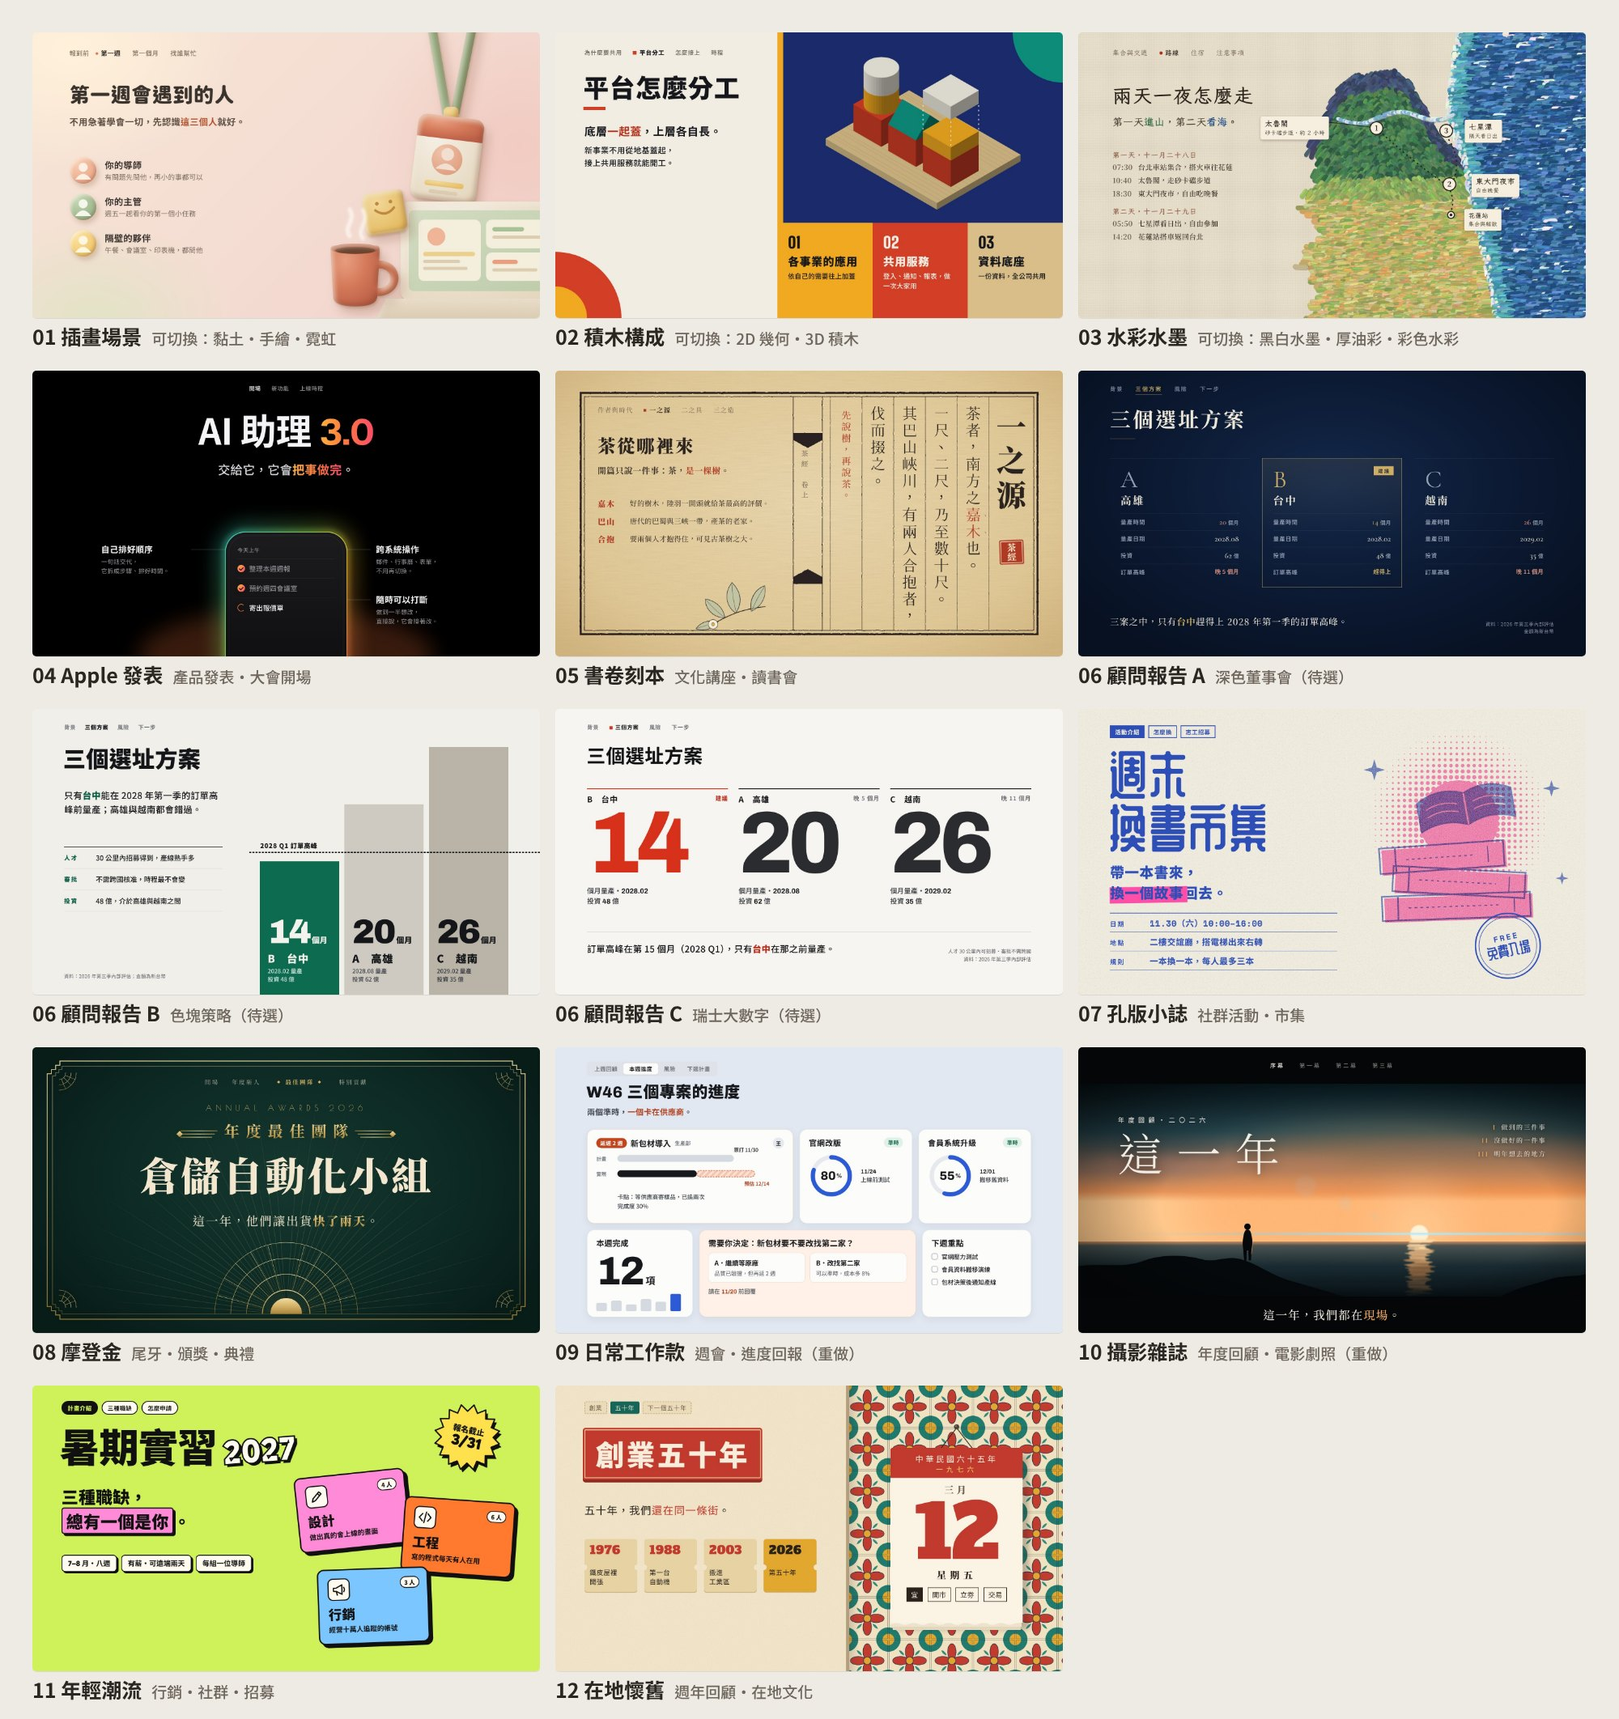
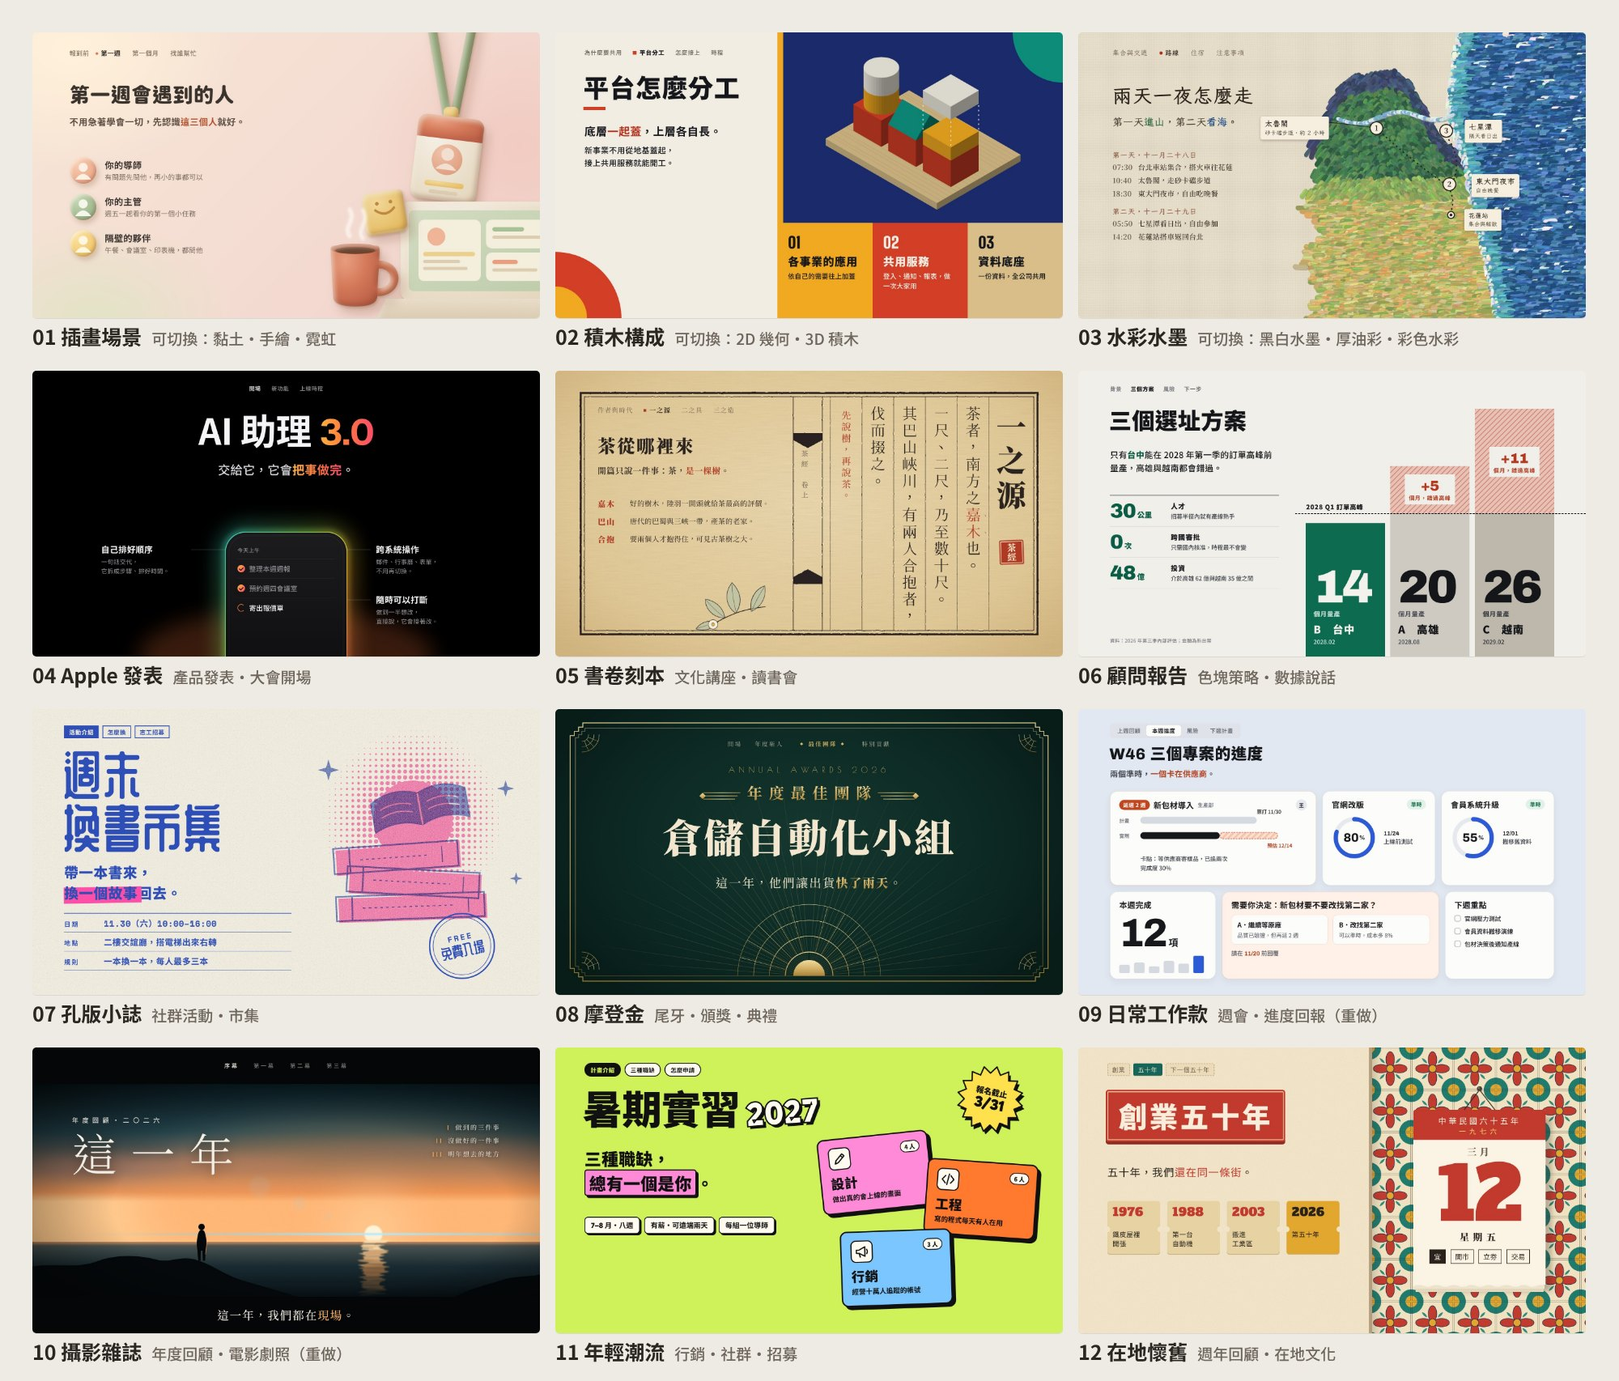
顧問報告定案：色塊策略混搭巨大數字，佐證改成數字
- 06-counsel：色塊即圖表、超出期限的部分標出差距、三條佐證各有一個大數字
- 移除 A、C 候選；更新總覽、審閱頁、style-list-v5、STATUS、ROADMAP；LOG 追加本段

Claude-Session: https://claude.ai/code/session_01Cd6GfsbJAA4rNvekkT5jEL

diff --git a/projects/presentation-skill/outputs/style-moodboard-v5/src/06-counsel.html b/projects/presentation-skill/outputs/style-moodboard-v5/src/06-counsel.html
@@ -1,0 +1,69 @@
+<!doctype html>
+<html lang="zh-Hant">
+<head>
+<meta charset="utf-8">
+<title>06 顧問報告（色塊策略）｜選址三方案</title>
+<link rel="stylesheet" href="https://fonts.googleapis.com/css2?family=Noto+Sans+TC:wght@400;500;700;900&family=Archivo:wght@600;700;800;900&display=block">
+<style>
+  :root{--bg:#F1EFEA;--ink:#141619;--sub:#585D66;--green:#0D6B4F;--greenText:#0B5E45;--gray:#CFCAC1;--gray2:#BDB7AC;--late:#B5381F}
+  *{box-sizing:border-box;margin:0;padding:0}
+  html,body{width:1920px;height:1080px;overflow:hidden;background:var(--bg)}
+  .slide{position:relative;width:1920px;height:1080px;overflow:hidden;background:var(--bg);color:var(--ink);font-family:"Archivo","Noto Sans TC",sans-serif}
+  svg{position:absolute;inset:0}
+  nav{position:absolute;left:120px;top:58px;display:flex;gap:34px;font:500 21px/1 "Noto Sans TC";color:var(--sub);letter-spacing:.06em}
+  nav b{color:var(--ink);font-weight:900}
+  h2{position:absolute;left:116px;top:136px;font:900 86px/1.12 "Noto Sans TC";letter-spacing:.01em}
+  p.lead{position:absolute;left:120px;top:292px;width:640px;font:500 32px/1.55 "Noto Sans TC";letter-spacing:.02em}
+  p.lead em{font-style:normal;font-weight:900;color:var(--greenText)}
+  /* evidence: every point stands on a number */
+  .ev{position:absolute;left:120px;top:470px;width:640px;border-top:2px solid var(--ink)}
+  .ev div{display:grid;grid-template-columns:230px 1fr;align-items:center;padding:20px 0;border-bottom:1px solid #D3CFC6}
+  .ev b{font:900 76px/1 "Archivo";letter-spacing:-.03em;color:var(--greenText)}
+  .ev b small{font:900 28px/1 "Noto Sans TC";letter-spacing:0;margin-left:6px}
+  .ev strong{display:block;font:900 26px/1.3 "Noto Sans TC";letter-spacing:.08em}
+  .ev span{display:block;margin-top:6px;font:500 22px/1.45 "Noto Sans TC";color:#3F444B}
+  .src{position:absolute;left:120px;top:1010px;font:400 18px/1 "Noto Sans TC";color:#5D6168;letter-spacing:.04em}
+  /* the chart is the poster: block height = months to mass production */
+  .blk{position:absolute;bottom:0;width:300px;padding:0 30px 40px;display:flex;flex-direction:column;justify-content:flex-end}
+  .blk b{display:block;font:900 176px/.84 "Archivo";letter-spacing:-.05em}
+  .blk em{display:block;margin-top:14px;font:700 24px/1 "Noto Sans TC";font-style:normal;letter-spacing:.06em}
+  .blk strong{display:block;margin-top:22px;font:900 40px/1.2 "Noto Sans TC";letter-spacing:.06em}
+  .blk small{display:block;margin-top:8px;font:500 22px/1.45 "Noto Sans TC"}
+  .over{position:absolute;width:190px;margin-left:55px;padding:16px 0 14px;background:var(--bg);text-align:center;font:900 54px/1 "Archivo";color:var(--late);letter-spacing:-.02em}
+  .over small{display:block;margin-top:8px;font:700 21px/1 "Noto Sans TC";letter-spacing:.08em}
+  .peak{position:absolute;left:820px;width:1100px;border-top:4px dashed var(--ink)}
+  .peak span{position:absolute;left:30px;top:-46px;font:900 24px/1 "Noto Sans TC";letter-spacing:.06em;background:var(--bg);padding:6px 12px}
+</style>
+</head>
+<body>
+<div class="slide">
+  <svg width="1920" height="1080" viewBox="0 0 1920 1080" aria-hidden="true">
+    <defs>
+      <pattern id="late" width="14" height="14" patternUnits="userSpaceOnUse" patternTransform="rotate(45)">
+        <rect width="14" height="14" fill="#E8C2B6"/><line x1="0" y1="0" x2="0" y2="14" stroke="#B5381F" stroke-opacity=".55" stroke-width="5"/>
+      </pattern>
+    </defs>
+    <!-- the part of each block that runs past the order peak -->
+    <rect x="1180" y="360" width="300" height="180" fill="url(#late)"/>
+    <rect x="1500" y="144" width="300" height="396" fill="url(#late)"/>
+  </svg>
+
+  <nav aria-label="章節"><span>背景</span><b>三個方案</b><span>風險</span><span>下一步</span></nav>
+  <h2>三個選址方案</h2>
+  <p class="lead">只有<em>台中</em>能在 2028 年第一季的訂單高峰前量產，高雄與越南都會錯過。</p>
+  <div class="ev">
+    <div><b>30<small>公里</small></b><p><strong>人才</strong><span>招募半徑內就有產線熟手</span></p></div>
+    <div><b>0<small>次</small></b><p><strong>跨國審批</strong><span>只需國內核准，時程最不會變</span></p></div>
+    <div><b>48<small>億</small></b><p><strong>投資</strong><span>介於高雄 62 億與越南 35 億之間</span></p></div>
+  </div>
+  <p class="src">資料：2026 年第三季內部評估；金額為新台幣</p>
+
+  <section class="blk" style="left:860px;height:504px;background:var(--green);color:#F4F2EC"><b>14</b><em style="color:#CFE5DB">個月量產</em><strong>B　台中</strong><small style="color:#CFE5DB">2028.02</small></section>
+  <section class="blk" style="left:1180px;height:540px;top:540px;background:var(--gray)"><b>20</b><em style="color:#3F444B">個月量產</em><strong>A　高雄</strong><small style="color:#3F444B">2028.08</small></section>
+  <section class="blk" style="left:1500px;height:540px;top:540px;background:var(--gray2)"><b>26</b><em style="color:#33373D">個月量產</em><strong>C　越南</strong><small style="color:#33373D">2029.02</small></section>
+  <div class="over" style="left:1180px;top:392px">+5<small>個月，錯過高峰</small></div>
+  <div class="over" style="left:1500px;top:288px">+11<small>個月，錯過高峰</small></div>
+  <div class="peak" style="top:538px"><span>2028 Q1 訂單高峰</span></div>
+</div>
+</body>
+</html>

diff --git a/projects/presentation-skill/outputs/style-moodboard-v5/index.html b/projects/presentation-skill/outputs/style-moodboard-v5/index.html
@@ -43,11 +43,11 @@
 <main>
   <header>
     <h1>風格意象圖：十二款</h1>
-    <p>每一頁的主標題都只寫「這頁在講什麼」，總結一律放在內文。插畫場景、積木構成、水彩水墨可切換畫風；顧問報告有三個方向待選。用色都還沒定案。</p>
+    <p>每一頁的主標題都只寫「這頁在講什麼」，總結一律放在內文。插畫場景、積木構成、水彩水墨可切換畫風；顧問報告定為色塊策略。用色都還沒定案。</p>
   </header>
   <section class="how" aria-label="怎麼看">
     <div><b>切換畫風</b><span>有切換鈕的款式，點一下看同一頁換畫法的樣子。</span></div>
-    <div><b>顧問報告</b><span>點 A、B、C 切換三個方向，看哪個比較接近你要的。</span></div>
+    <div><b>顧問報告</b><span>你選的色塊策略，混搭巨大數字，佐證都改成數字。</span></div>
     <div><b>並排</b><span>看 <a href="overview.jpg" style="color:var(--accent)">十二款總覽圖</a>，哪些太像。</span></div>
   </section>
   <section class="grid" id="grid"></section>
@@ -62,7 +62,7 @@ const S = [
   ['03','水彩水墨','paint','用畫筆帶路：同一張地圖，三種畫材。','旅遊與活動說明、文化與自然導覽、生活分享','人文、手感、有溫度','畫在紙或畫布上的地圖，地名與路線疊在畫上','員工旅遊・花蓮兩天一夜','你的水彩手繪圖、中國畫水墨、印象派油彩',[['03b-ink-oil','厚油彩'],['03a-ink-mono','黑白水墨'],['03c-ink-watercolor','彩色水彩']],'厚油彩新畫'],
   ['04','Apple 發表','apple','黑色舞台、一句話、一個發光的產品。','產品發表、大會開場、主題演講','俐落、高級、期待','置中構圖、漸層關鍵字、邊緣發光的裝置','AI 助理 3.0 發表','你分享的 Apple Design、HS 黑底巨型數字劇場',[['04-apple','']]],
   ['05','書卷刻本','scroll','像翻開一本線裝書：原文直排，講解橫排。','文化講座、讀書會、國學課','沉靜、典雅、書卷氣','版框、界欄、魚尾、朱印與朱批','讀書會・《茶經》導讀','HS 宋刻本、呂敬人、民國書衣',[['05-scroll','']]],
-  ['06','顧問報告','counsel','三個方向待選：深色董事會、色塊策略、瑞士大數字。','策略提案、決策會議、高階報告','A 沉穩高級／B 大膽現代／C 俐落有力','A 深藍底金線、三欄對照；B 色塊高度就是長條圖、期限線橫切；C 三個巨大數字就是畫面','新廠選址三方案','HS 雙字體諮詢版、新瑞士大字報、BHT signal、PC 幾何風',[['06a-counsel-boardroom','A 深色董事會'],['06b-counsel-blocks','B 色塊策略'],['06c-counsel-swiss','C 瑞士大數字']],'三個方向待選'],
+  ['06','顧問報告','counsel','讓數據和證據自己說話：色塊就是圖表，數字放到最大。','策略提案、決策會議、高階報告','大膽、現代、有說服力','色塊高度就是數值、期限線橫切、超出部分打斜線並標出差距；每個佐證都有一個大數字','新廠選址三方案','你選的色塊策略，混搭瑞士大數字；HS 新瑞士大字報、PC 幾何風',[['06-counsel','']],'定案方向'],
   ['07','孔版小誌','riso','兩種油墨、套印不準的手作感。','社群活動、市集、社團招募','熱鬧、手作、有態度','只用兩色；網點、錯位、印章、帳冊列','週末換書市集','BHT retro-zine、peoples-platform',[['07-riso','']]],
   ['08','摩登金','deco','1930 年代的燙金請帖，留給一年一次的大場面。','尾牙與頒獎、週年慶、晚宴','華麗、隆重、復古','對稱構圖、階梯框、放射扇形、金色雙線','年度最佳團隊頒獎','HS 上海摩登、FS Dark Botanical',[['08-deco','']]],
   ['09','日常工作款','everyday','一頁便當格，看完本週進度和要你決定的事。','週會、進度回報、專案複盤','清爽、現代、一目了然','卡片拼成總覽：出狀況的專案拿最大格，附計畫與實際對照；準時的用進度環；決策卡用橘色','W46 專案週報','HS Bento 便當格、Linear 與 Notion 類產品介面、CDX 清爽專業風',[['09-everyday','']],'重做'],

diff --git a/projects/presentation-skill/outputs/style-moodboard-v5/overview.html b/projects/presentation-skill/outputs/style-moodboard-v5/overview.html
@@ -11,7 +11,7 @@
 </style></head><body><div class="grid" id="g"></div>
 <script>
 const items=[['01a-illustration-clay','01 插畫場景','可切換：黏土・手繪・霓虹'],['02b-blocks-3d-wood','02 積木構成','可切換：2D 幾何・3D 積木'],['03b-ink-oil','03 水彩水墨','可切換：黑白水墨・厚油彩・彩色水彩'],
-['04-apple','04 Apple 發表','產品發表・大會開場'],['05-scroll','05 書卷刻本','文化講座・讀書會'],['06a-counsel-boardroom','06 顧問報告 A','深色董事會（待選）'],['06b-counsel-blocks','06 顧問報告 B','色塊策略（待選）'],['06c-counsel-swiss','06 顧問報告 C','瑞士大數字（待選）'],
+['04-apple','04 Apple 發表','產品發表・大會開場'],['05-scroll','05 書卷刻本','文化講座・讀書會'],['06-counsel','06 顧問報告','色塊策略・數據說話'],
 ['07-riso','07 孔版小誌','社群活動・市集'],['08-deco','08 摩登金','尾牙・頒獎・典禮'],['09-everyday','09 日常工作款','週會・進度回報（重做）'],
 ['10-photo','10 攝影雜誌','年度回顧・電影劇照（重做）'],['11-trend','11 年輕潮流','行銷・社群・招募'],['12-retro','12 在地懷舊','週年回顧・在地文化']];
 document.getElementById('g').innerHTML=items.map(([f,n,u])=>`<figure><img src="img/${f}.jpg"><figcaption>${n}<span>${u}</span></figcaption></figure>`).join('');

diff --git a/projects/presentation-skill/ROADMAP.md b/projects/presentation-skill/ROADMAP.md
@@ -56,7 +56,7 @@
 |---|---|---|
 | 0 | 研究、規劃、方法論梳理 | ✅ |
 | 1 | v0 骨架、v1 四次真實簡報迭代（支柱 ①） | ✅ |
-| **2** | **設計美感（支柱 ②）：2026-11-15 起從頭來過，見下方「階段 2 重新規劃」** | **🔄 2b 風格定調：十二款，顧問報告三方向待選** |
+| **2** | **設計美感（支柱 ②）：2026-11-15 起從頭來過，見下方「階段 2 重新規劃」** | **🔄 2b 風格定調：十二款意象圖，待整體回饋與選首批** |
 | 3 | 畫面活起來：插畫流程、動態背景、元素跨頁延續 | |
 | 4 | 交付與修改：可編輯 PPTX、講者模式、在成品上修改 | |
 | 5 | 品質與記憶：獨立評審、外觀帳本、品味記憶 | |
@@ -85,7 +85,7 @@
   - **11-17 審閱回饋**：用色另開一輪討論；資訊圖表改成內容結構（見 2c）；合併幾何構成＋積木、紙黏土＋插畫手繪、水彩＋中華水墨；光幕發表改走 Apple Style。合併後 8 款，空 2 位，用表單討論補位。
   - **11-17 清單 v4**：補位候選全部想要，擴成 14 款，並排後再收斂（`inputs/style-list-v4.md`）。十四款意象圖已交付（`outputs/style-moodboard-v4/`），待使用者審閱收斂、選首批三款。
   - **11-18 清單 v5**：依使用者建議改成 12 款，三款可切換畫風，三款重做（`inputs/style-list-v5.md`、`outputs/style-moodboard-v5/`）。待討論。
-  - **11-18 修正**：總結一律移到內文、主標題只寫題目（使用者再次強調，已寫進 `presentation-principles.md`）；顧問報告做三個方向待選。
+  - **11-18 修正**：總結一律移到內文、主標題只寫題目（使用者再次強調，已寫進 `presentation-principles.md`）；顧問報告定案為色塊策略，混搭巨大數字。
 - [ ] **2c 逐風格設計排法**：每個風格 × 每種內容結構（目前 14 種，**11-17 起加入圖表類結構：長條、圓環比例、折線趨勢、人形圖示、地圖**）× 3–5 種排法。**四層在實作上可分離替換，但要一起設計：背景層、圖像層、元素層、文字層**（2026-11-17 使用者決定把圖像層提前，原本規劃在階段 3）
 - [ ] **2d 流程**：storyboard 確認結構 → 一次視覺關卡（風格與排版一起呈現）→ 製作
 - [ ] **2e 驗證**：用真實簡報做出成品

diff --git a/projects/presentation-skill/LOG.md b/projects/presentation-skill/LOG.md
@@ -775,3 +775,13 @@
 - **顧問報告**：前兩版都是淺紙底、海軍藍、襯線標題，使用者兩次都不喜歡。這次不再猜第三種同類，改做三個刻意不同的方向讓使用者選：A 深色董事會、B 色塊策略、C 瑞士大數字。三版都遵守新的標題規則。B 的色塊文字原本被期限線與標籤壓到，已把文字移到色塊底部。
 - **驗證**：對比全數通過，二十張圖文字皆無溢出。
 - **待決**：顧問報告選哪個方向，用互動表單問。
+
+## 2026-11-18｜顧問報告定案：色塊策略，讓數據說話
+
+- **使用者的選擇（互動表單）**：
+  - 方向：B 色塊策略。
+  - 想保留的元素：色塊當圖表、巨大數字；另補一句「數據與證據說話最佳的呈現方式」。
+- **做法**：以 B 為底，數字放大到 C 方向的尺寸；超過期限的部分打斜線，標出「+5」「+11 個月，錯過高峰」，差距直接看得見；左側三條佐證都改成「一個大數字＋一句說明」。標題維持「三個選址方案」，總結在內文。
+- **這款的鐵律草案**：每個主張都要有數字或證據撐著；圖表本身就是主視覺；只用一個焦點色。
+- **其他**：A、C 兩個方向退回，三個候選檔從 v5 資料夾移除，留在 git 歷史。差距標籤原本壓在斜線紋上不好讀，改成實心底的小牌；對比已檢查通過。
+- **同步的檔案**：`outputs/style-moodboard-v5/`（`06-counsel` 與總覽、審閱頁）、`inputs/style-list-v5.md`、`STATUS.md`、`ROADMAP.md`、`LOG.md`。

diff --git a/projects/presentation-skill/inputs/style-list-v5.md b/projects/presentation-skill/inputs/style-list-v5.md
@@ -70,3 +70,14 @@ _2026-11-18，依使用者對十四款的審閱建議調整；同日再依兩點
 | C 瑞士大數字 | 14、20、26 三個巨大數字就是畫面，只有台中用紅色；嚴格網格、無襯線 | 俐落、有力 |
 
 三個方向都遵守修正一：標題是「三個選址方案」，總結「只有台中趕得上訂單高峰」放在內文。待使用者選方向。
+
+## 2026-11-18 定案：顧問報告走色塊策略
+
+使用者用表單選了 **B 色塊策略**，想保留的元素是「色塊當圖表」「巨大數字」，並補充「數據與證據說話最佳的呈現方式」。合併後的顧問報告（`outputs/style-moodboard-v5/img/06-counsel.jpg`）：
+
+- 色塊高度就是量產月數，數字放大到 C 方向的尺寸。
+- 期限線橫切；超過期限的部分打斜線，標出「+5」「+11 個月，錯過高峰」，讓差距直接看得見。
+- 左側三條佐證都改成一個大數字配一句說明：30 公里、0 次跨國審批、48 億。
+- 標題仍只寫「三個選址方案」，總結在內文。
+
+這款風格的鐵律草案：**每個主張都要有一個數字或證據撐著；圖表本身就是主視覺；只用一個焦點色。** A、C 兩個方向退回，檔案留在 git 歷史。

diff --git a/projects/presentation-skill/STATUS.md b/projects/presentation-skill/STATUS.md
@@ -1,6 +1,6 @@
 # 狀態：presentation-skill（deck-architect）
 
-> **最新接手點（2026-11-18）**：十二款意象圖已依「總結不當主標題」全部修正（`outputs/style-moodboard-v5/`）。**顧問報告有三個新方向待使用者選**（A 深色董事會、B 色塊策略、C 瑞士大數字），詳見 [`inputs/style-list-v5.md`](inputs/style-list-v5.md) 最後兩節。插畫十三種子風格的四個問題仍保留未答。用色另議。
+> **最新接手點（2026-11-18）**：十二款意象圖已依「總結不當主標題」全部修正；**顧問報告定案為色塊策略**，混搭巨大數字，佐證全部改成數字（`outputs/style-moodboard-v5/`）。插畫十三種子風格的四個問題仍保留未答。用色另議。下一步等使用者對十二款的整體回饋，再選首批三款。
 
 > 主軸文件：`ROADMAP.md`（三個支柱＋全流程＋階段）。
 
